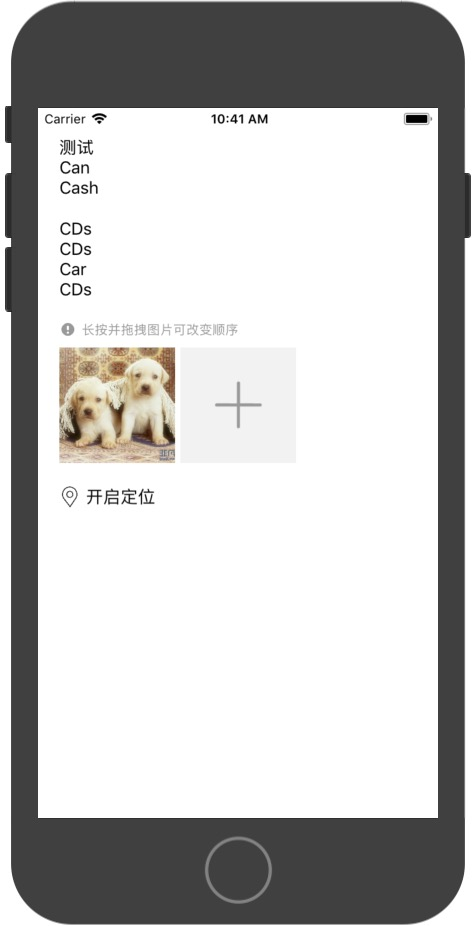
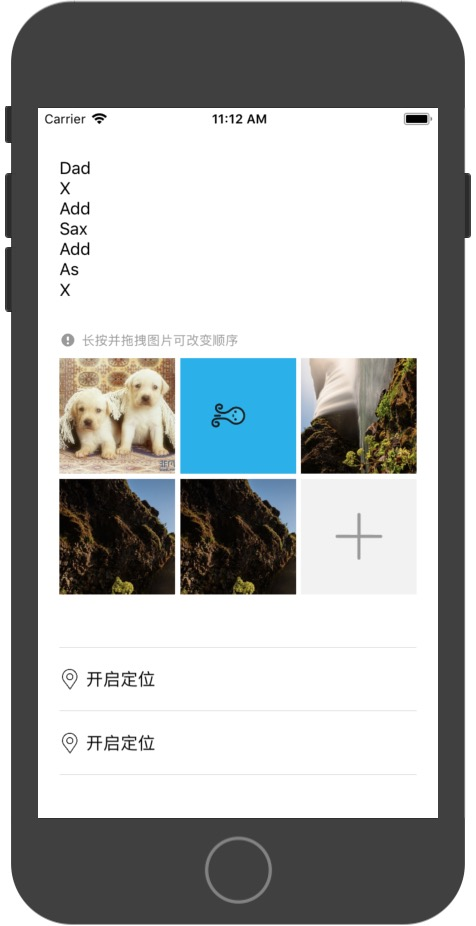
调整样式

diff --git a/MWPublishKit/Classes/MWPublishView.m b/MWPublishKit/Classes/MWPublishView.m
@@ -138,7 +138,7 @@
     } else {
         lineNum = itemCount/3+1;
     }
-    return lineNum*(_imageItemWidth+10.f)+IMAGE_TIPS_HEIGHT;
+    return lineNum*_imageItemWidth+(lineNum-1)*DISTANCE_BETWEEN_IMAGES+IMAGE_TIPS_HEIGHT;
 }
 
 /* 跳转选择图片ActionSheet  */
@@ -172,7 +172,7 @@
 
 /* 更新scrollView contentsize */
 - (void)updateScrollViewContentSize {
-    self.bgScrollView.contentSize = CGSizeMake(CGRectGetWidth(self.bgScrollView.bounds), CGRectGetMaxY(self.inputTextView.frame)+20.f+[self calImageCollectionViewHeight]+[self.moreItemDataSource moreItemCount]*MORE_ITEM_CELL_HEIGHT+BOTTOM_PADDING);
+    self.bgScrollView.contentSize = CGSizeMake(CGRectGetWidth(self.bgScrollView.bounds), CGRectGetMaxY(self.inputTextView.frame)+DISTANCE_BETWEEN_TEXTVIEW_AND_IMAGE+[self calImageCollectionViewHeight]+DISTANCE_BETWEEN_IMAGE_AND_MOREITEMS+[self.moreItemDataSource moreItemCount]*MORE_ITEM_CELL_HEIGHT+BOTTOM_PADDING);
 }
 
 /* 更改选择图片数量 */
@@ -187,7 +187,7 @@
 /* 更改更多选项 */
 - (void)updateMoreItems {
     CGRect moreFrame = self.moreTableView.frame;
-    moreFrame.origin.y = CGRectGetMaxY(self.imageCollectionView.frame);
+    moreFrame.origin.y = CGRectGetMaxY(self.imageCollectionView.frame)+DISTANCE_BETWEEN_IMAGE_AND_MOREITEMS;
     moreFrame.size.height = [self.moreItemDataSource moreItemCount]*MORE_ITEM_CELL_HEIGHT;
     self.moreTableView.frame = moreFrame;
     [self.moreTableView reloadData];
@@ -374,7 +374,7 @@
     if (!cell) {
         cell = [[MWMoreItemCell alloc] initWithStyle:UITableViewCellStyleDefault reuseIdentifier:@"moreCell"];
     }
-    [cell updateUIWithMoreItem:[self.moreItemDataSource moreItemForRow:indexPath.row]];
+    [cell updateUIWithMoreItem:[self.moreItemDataSource moreItemForRow:indexPath.row] isFirst:indexPath.row == 0 ? YES : NO];
     return cell;
 }
 
@@ -390,7 +390,7 @@
     if (!_bgScrollView) {
         self.bgScrollView = [[UIScrollView alloc] initWithFrame:self.bounds];
         [_bgScrollView addSubview:self.inputTextView];
-        _imageItemWidth = ((CGRectGetWidth(_bgScrollView.bounds)-2*PADDING)-10.f)/3.f;
+        _imageItemWidth = (CGRectGetWidth(_bgScrollView.bounds)-2*PADDING-2*DISTANCE_BETWEEN_IMAGES)/3.f;
         [_bgScrollView addSubview:self.imageCollectionView];
         [_bgScrollView addSubview:self.moreTableView];
     }
@@ -425,9 +425,9 @@
 - (UICollectionView *)imageCollectionView {
     if (!_imageCollectionView) {
         UICollectionViewFlowLayout *layout = [[UICollectionViewFlowLayout alloc] init];
-        layout.minimumLineSpacing = 5.f;
-        layout.minimumInteritemSpacing = 5.f;
-        self.imageCollectionView = [[UICollectionView alloc] initWithFrame:CGRectMake(PADDING, CGRectGetMaxY(self.inputTextView.frame)+20.f, CGRectGetWidth(self.inputTextView.frame), [self calImageCollectionViewHeight]) collectionViewLayout:layout];
+        layout.minimumLineSpacing = DISTANCE_BETWEEN_IMAGES;
+        layout.minimumInteritemSpacing = DISTANCE_BETWEEN_IMAGES;
+        self.imageCollectionView = [[UICollectionView alloc] initWithFrame:CGRectMake(PADDING, CGRectGetMaxY(self.inputTextView.frame)+DISTANCE_BETWEEN_TEXTVIEW_AND_IMAGE, CGRectGetWidth(self.inputTextView.frame), [self calImageCollectionViewHeight]) collectionViewLayout:layout];
         _imageCollectionView.backgroundColor = [UIColor whiteColor];
         _imageCollectionView.delegate = self;
         _imageCollectionView.dataSource = self;
@@ -443,7 +443,7 @@
 
 - (UITableView *)moreTableView {
     if (!_moreTableView) {
-        self.moreTableView = [[UITableView alloc] initWithFrame:CGRectMake(PADDING, CGRectGetMaxY(self.imageCollectionView.frame), CGRectGetWidth(self.imageCollectionView.frame), 0) style:UITableViewStylePlain];
+        self.moreTableView = [[UITableView alloc] initWithFrame:CGRectMake(PADDING, CGRectGetMaxY(self.imageCollectionView.frame)+DISTANCE_BETWEEN_IMAGE_AND_MOREITEMS, CGRectGetWidth(self.imageCollectionView.frame), 0) style:UITableViewStylePlain];
         _moreTableView.delegate = self;
         _moreTableView.dataSource = self;
         _moreTableView.bounces = NO;

diff --git a/MWPublishKit/Classes/MWMoreItemCell.m b/MWPublishKit/Classes/MWMoreItemCell.m
@@ -13,6 +13,8 @@
 
 @property (nonatomic, strong) UIImageView *iconImageView;
 @property (nonatomic, strong) UILabel *titleLabel;
+@property (nonatomic, strong) UIView *topLineView;
+@property (nonatomic, strong) UIView *bottomLineView;
 
 @end
 
@@ -22,18 +24,31 @@
     if (self = [super initWithStyle:style reuseIdentifier:reuseIdentifier]) {
         [self.contentView addSubview:self.iconImageView];
         [self.contentView addSubview:self.titleLabel];
+        [self.contentView addSubview:self.topLineView];
+        [self.contentView addSubview:self.bottomLineView];
     }
     return self;
 }
 
 - (void)layoutSubviews {
     [super layoutSubviews];
+    
+    CGRect topLineFrame = self.topLineView.frame;
+    topLineFrame.size.width = self.bounds.size.width;
+    self.topLineView.frame = topLineFrame;
+    
+    CGRect bottomLineFrame = self.bottomLineView.frame;
+    bottomLineFrame.size.width = self.bounds.size.width;
+    bottomLineFrame.origin.y = self.bounds.size.height - bottomLineFrame.size.height;
+    self.bottomLineView.frame = bottomLineFrame;
+    
     CGRect titleFrame = self.titleLabel.frame;
     titleFrame.size.width = self.bounds.size.width-CGRectGetMaxX(self.iconImageView.frame)-10.f;
     self.titleLabel.frame = titleFrame;
 }
 
-- (void)updateUIWithMoreItem:(MWMoreItem *)moreItem {
+- (void)updateUIWithMoreItem:(MWMoreItem *)moreItem isFirst:(BOOL)isFirst {
+    self.topLineView.hidden = !isFirst;
     if (moreItem.isSelected) {
         self.iconImageView.image = moreItem.selectedIconImage;
         self.titleLabel.text = moreItem.selectedTitle;
@@ -49,7 +64,8 @@
 #pragma mark - LazyLoad
 - (UIImageView *)iconImageView {
     if (!_iconImageView) {
-        self.iconImageView = [[UIImageView alloc] initWithFrame:CGRectMake(0.f, 12.f, MORE_ITEM_CELL_HEIGHT-24.f, MORE_ITEM_CELL_HEIGHT-24.f)];
+        CGFloat width = 20.f;
+        self.iconImageView = [[UIImageView alloc] initWithFrame:CGRectMake(0.f, (MORE_ITEM_CELL_HEIGHT-width)/2.f, width, width)];
     }
     return _iconImageView;
 }
@@ -59,6 +75,22 @@
         self.titleLabel = [[UILabel alloc] initWithFrame:CGRectMake(CGRectGetMaxX(self.iconImageView.frame)+5.f, 0.f, self.bounds.size.width-CGRectGetMaxX(self.iconImageView.frame)-5.f, MORE_ITEM_CELL_HEIGHT)];
     }
     return _titleLabel;
+}
+
+- (UIView *)topLineView {
+    if (!_topLineView) {
+        self.topLineView = [[UIView alloc] initWithFrame:CGRectMake(0.f, 0.f, self.bounds.size.width, .5f)];
+        _topLineView.backgroundColor = [UIColor colorWithRed:0.8 green:0.8 blue:0.8 alpha:1];
+    }
+    return _topLineView;
+}
+
+- (UIView *)bottomLineView {
+    if (!_bottomLineView) {
+        self.bottomLineView = [[UIView alloc] initWithFrame:CGRectMake(0.f, self.bounds.size.height-.5f, self.bounds.size.width, .5f)];
+        _bottomLineView.backgroundColor = [UIColor colorWithRed:0.8 green:0.8 blue:0.8 alpha:1];
+    }
+    return _bottomLineView;
 }
 
 @end

diff --git a/MWPublishKitDemo/MWViewController.m b/MWPublishKitDemo/MWViewController.m
@@ -33,20 +33,17 @@
 }
 
 - (NSInteger)moreItemCount {
-    return 1;
+    return 2;
 }
 
 - (MWMoreItem *)moreItemForRow:(NSInteger)row {
-    if (row == 0) {
-        MWMoreItem *moreItem = [[MWMoreItem alloc] init];
-        moreItem.normalTitle = @"开启定位";
-        moreItem.selectedTitle = @"xxxx市";
-        moreItem.isSelected = NO;
-        moreItem.normalIconImage = [UIImage imageNamed:@"location"];
-        moreItem.selectedIconImage = [UIImage imageNamed:@"selected_location"];
-        return moreItem;
-    }
-    return nil;
+    MWMoreItem *moreItem = [[MWMoreItem alloc] init];
+    moreItem.normalTitle = @"开启定位";
+    moreItem.selectedTitle = @"xxxx市";
+    moreItem.isSelected = NO;
+    moreItem.normalIconImage = [UIImage imageNamed:@"location"];
+    moreItem.selectedIconImage = [UIImage imageNamed:@"selected_location"];
+    return moreItem;
 }
 
 - (void)clickItemForMoreItem:(MWMoreItem *)moreItem row:(NSInteger)row {

diff --git a/MWPublishKit/Classes/MWDefines.h b/MWPublishKit/Classes/MWDefines.h
@@ -8,11 +8,23 @@
 #ifndef MWDefines_h
 #define MWDefines_h
 
+/* 左右间距 */
 #define PADDING 20.f
+/* 输入文本区域高度 */
 #define INPUT_VIEW_HEIGHT 150.f
-#define MORE_ITEM_CELL_HEIGHT 44.f
+/* 更多条目高度 */
+#define MORE_ITEM_CELL_HEIGHT 60.f
+/* 距离底部距离 */
 #define BOTTOM_PADDING 30.f
+/* 最大图片数量 */
 #define IMAGE_MAX_COUNT 9
+/* 图片提示文本高度 */
 #define IMAGE_TIPS_HEIGHT 25.f
+/* 图片之间距离 */
+#define DISTANCE_BETWEEN_IMAGES 5.f
+/* 输入文本区域与图片选择区域距离 */
+#define DISTANCE_BETWEEN_TEXTVIEW_AND_IMAGE 30.f
+/* 图片选择区域与更多条目距离 */
+#define DISTANCE_BETWEEN_IMAGE_AND_MOREITEMS 50.f
 
 #endif /* MWDefines_h */

diff --git a/MWPublishKit/Classes/MWMoreItemCell.h b/MWPublishKit/Classes/MWMoreItemCell.h
@@ -10,6 +10,6 @@
 
 @interface MWMoreItemCell : UITableViewCell
 
-- (void)updateUIWithMoreItem:(MWMoreItem *)moreItem;
+- (void)updateUIWithMoreItem:(MWMoreItem *)moreItem isFirst:(BOOL)isFirst;
 
 @end
